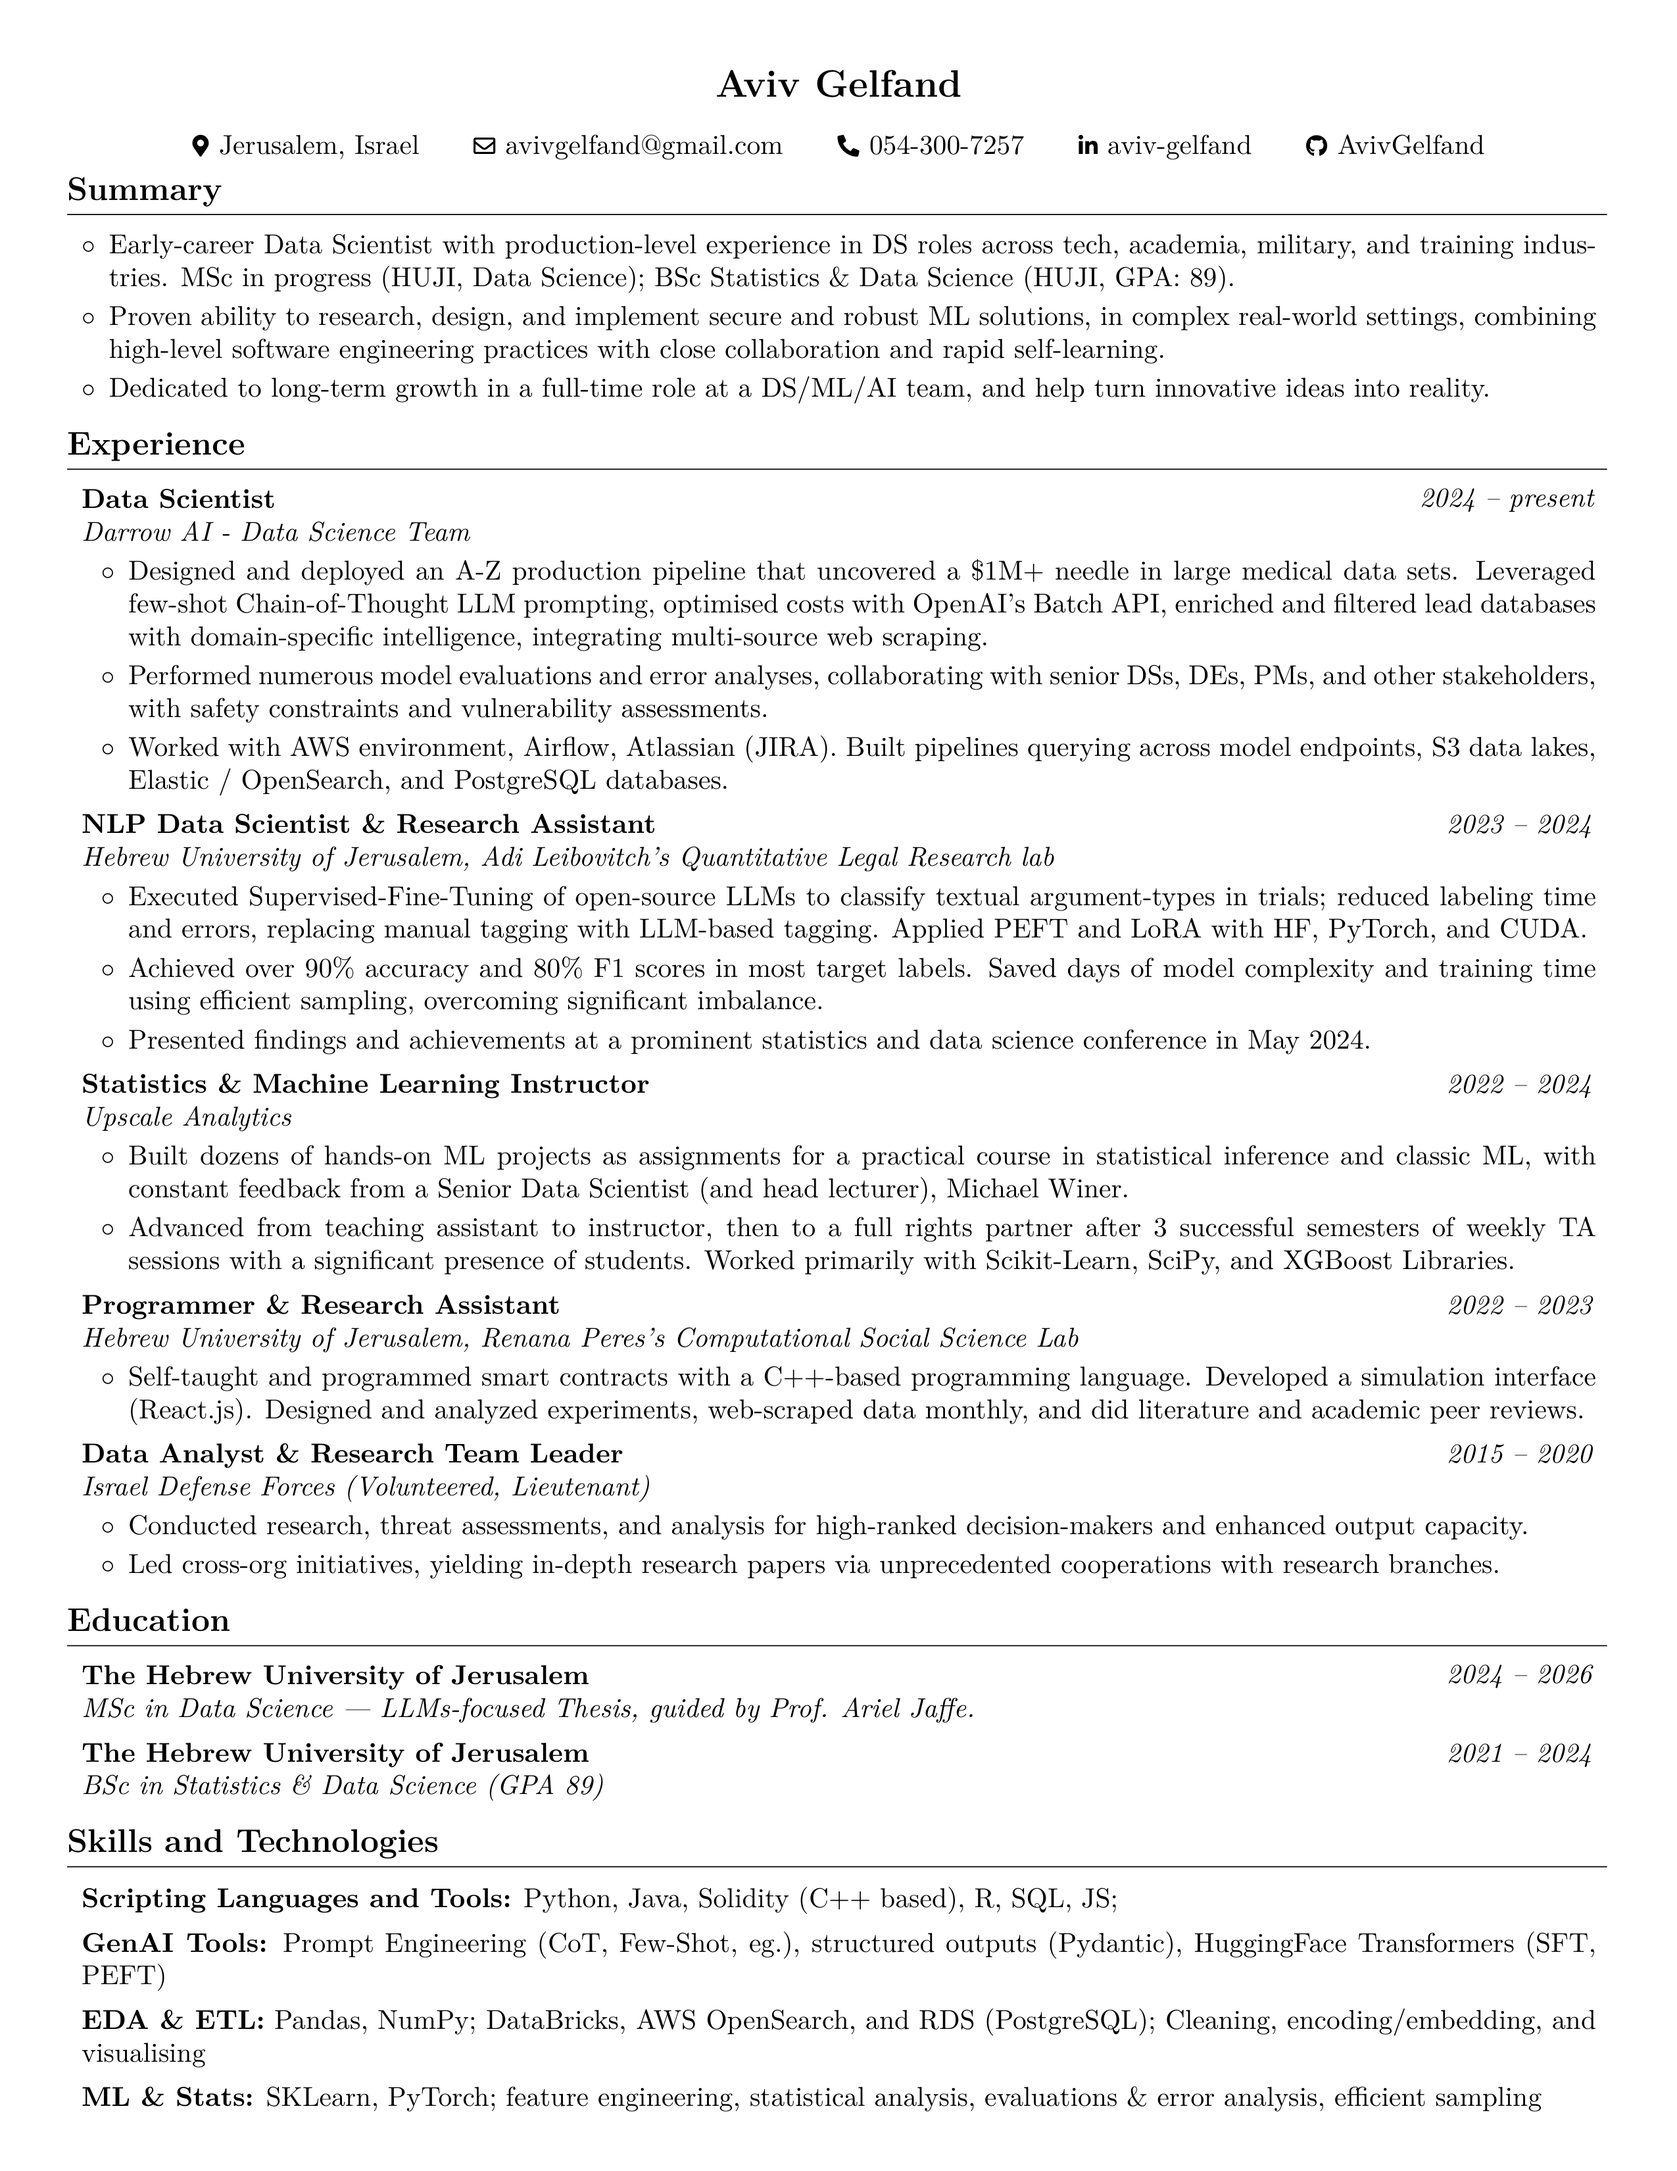
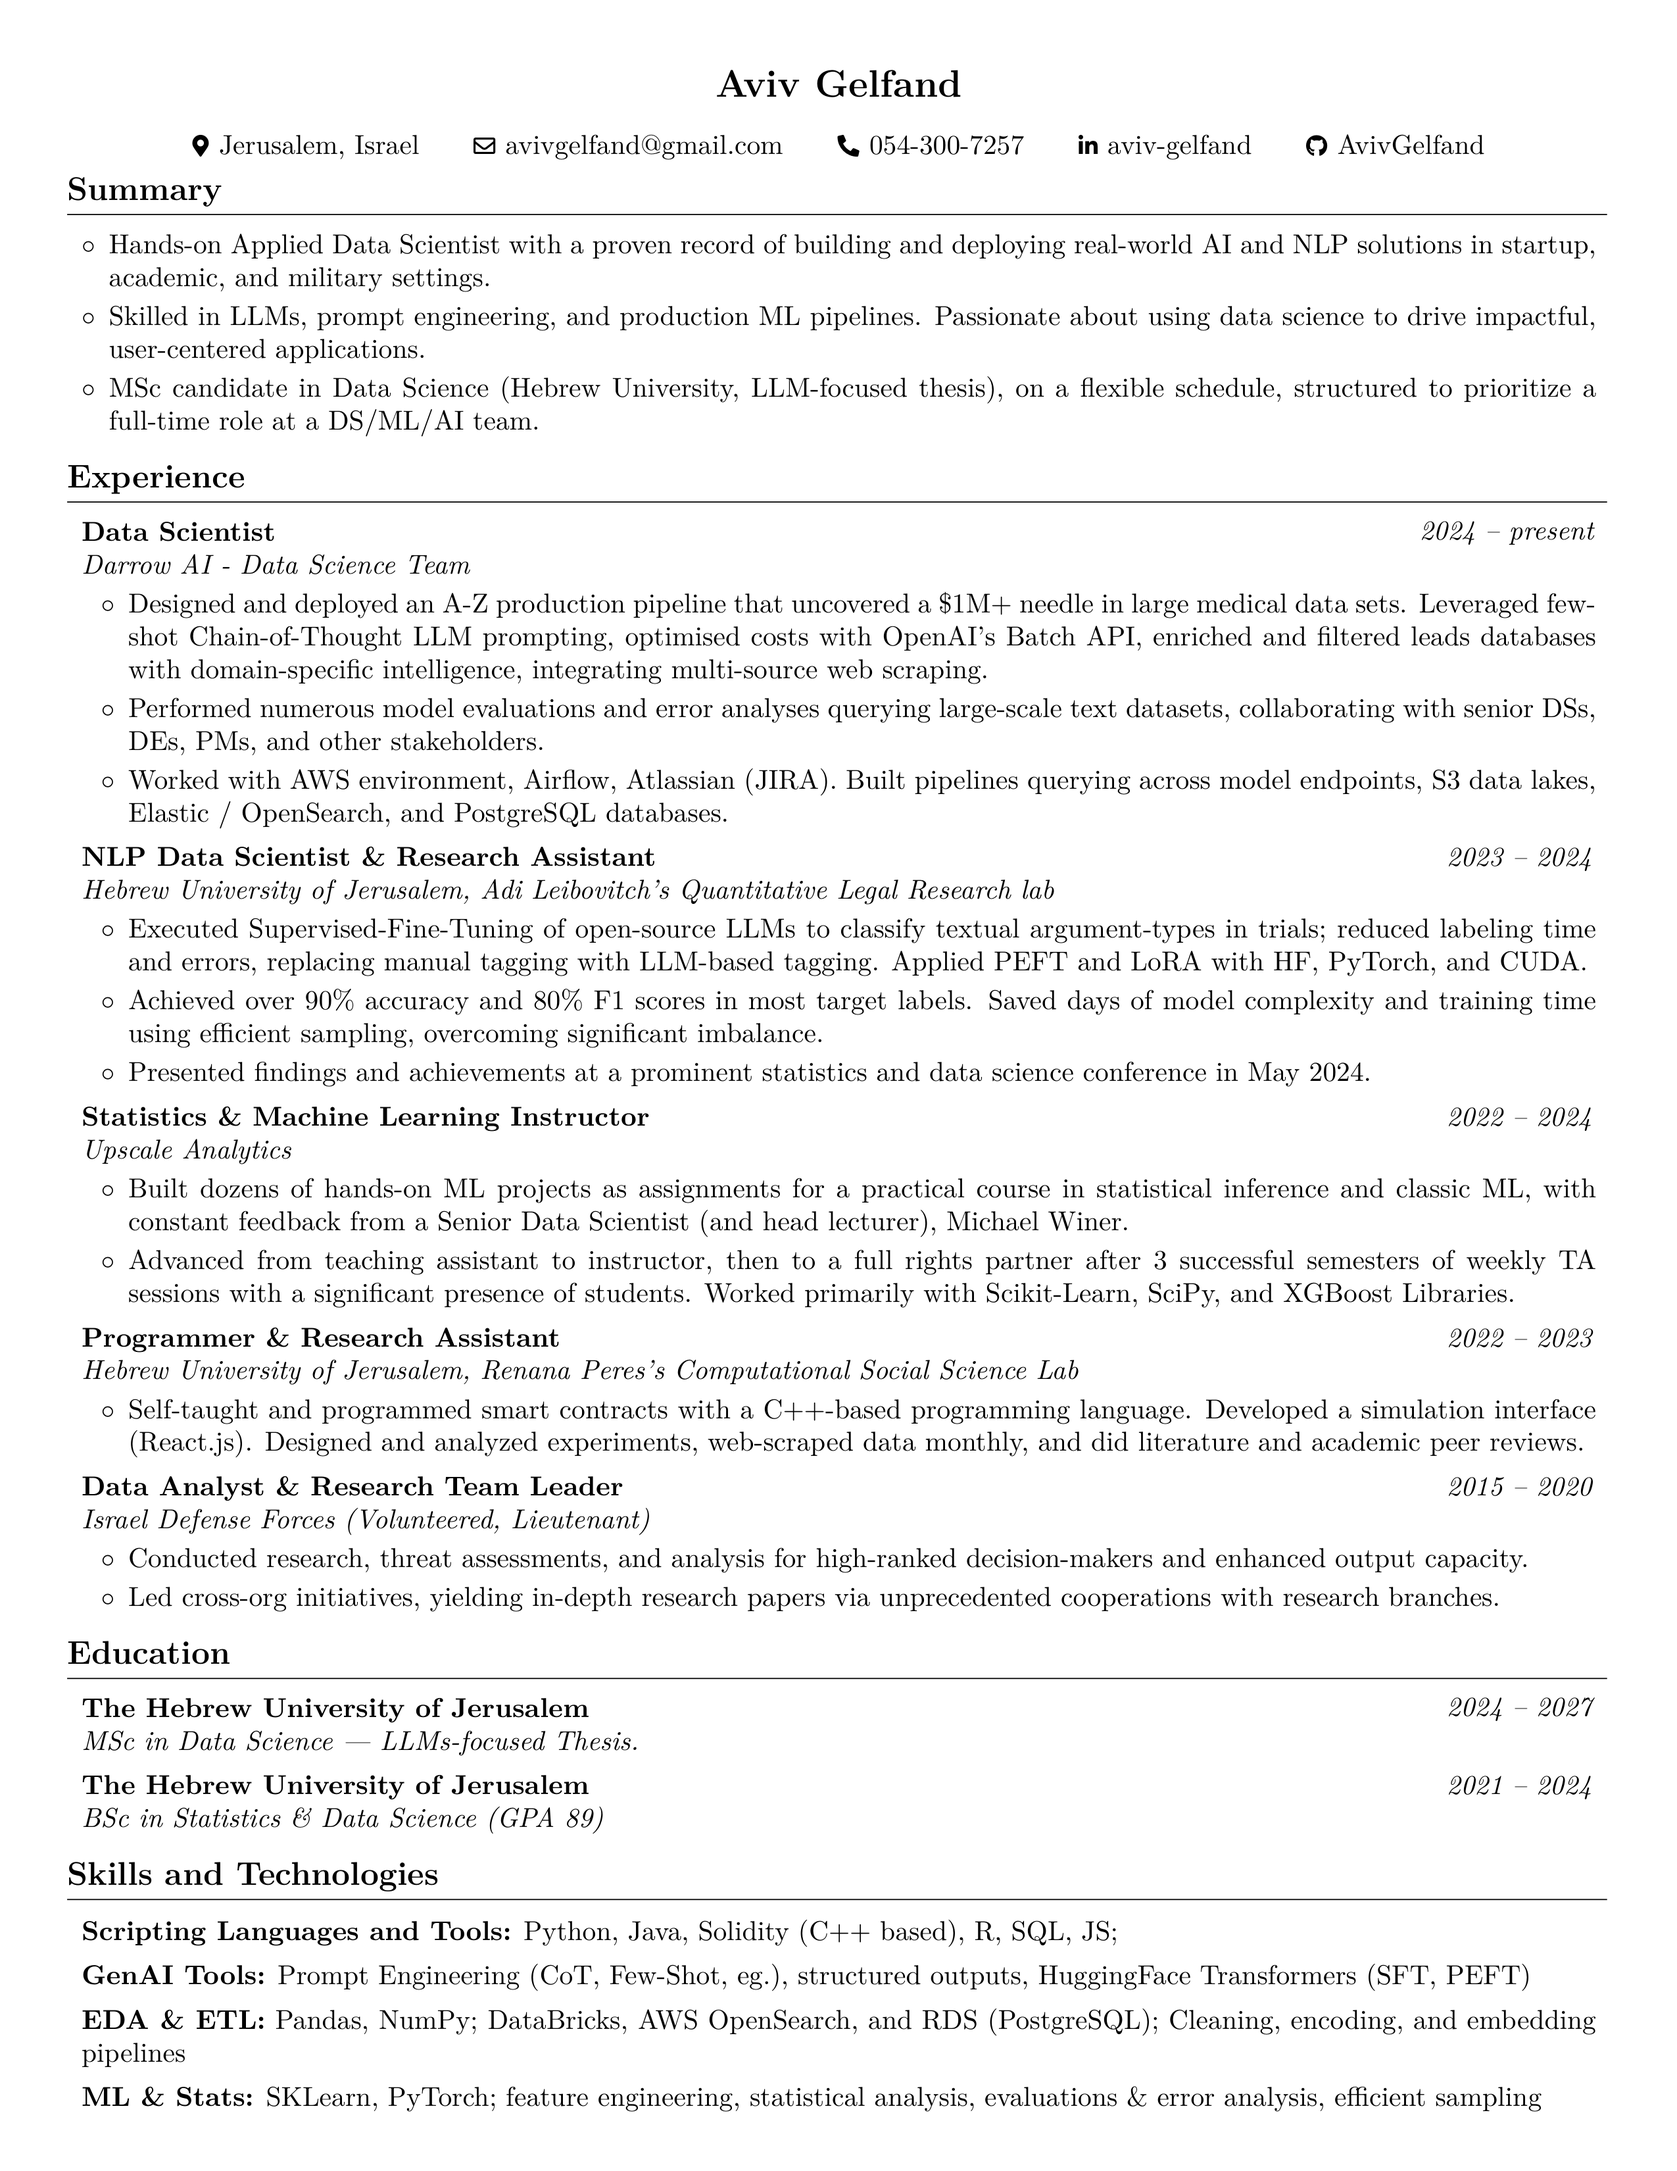
Render the latest CV

diff --git a/Aviv_Gelfand_CV.html b/Aviv_Gelfand_CV.html
@@ -43,9 +43,8 @@
         <h1>Summary</h1>
         <ul>
         <li>Hands-on Applied Data Scientist with a proven record of building and deploying real-world AI and NLP solutions in startup, academic, and military settings.</li>
-        <li>Skilled in LLMs, prompt engineering, and production ML pipelines.</li>
-        <li>Passionate about using data science to drive impactful, user-centered applications. </li>
-        <li>MSc candidate in Data Science (Hebrew University, LLM-focused thesis).</li>
+        <li>Skilled in LLMs, prompt engineering, and production ML pipelines. Passionate about using data science to drive impactful, user-centered applications. </li>
+        <li>MSc candidate in Data Science (Hebrew University, LLM-focused thesis), on a flexible schedule, structured to prioritize a full-time role at a DS/ML/AI team.</li>
         </ul>
         <h1>Experience</h1>
         <h2>Darrow AI - Data Science Team, Data Scientist</h2>
@@ -80,9 +79,9 @@
         <li>Led cross-org initiatives, yielding in-depth research papers via unprecedented cooperations with research branches.</li>
         </ul>
         <h1>Education</h1>
-        <h2>The Hebrew University of Jerusalem, MSc in Data Science | LLMs-focused Thesis, guided by Prof. Ariel Jaffe.</h2>
+        <h2>The Hebrew University of Jerusalem, MSc in Data Science | LLMs-focused Thesis.</h2>
         <ul>
-        <li>2024 – 2026</li>
+        <li>2024 – 2027</li>
         </ul>
         <h2>The Hebrew University of Jerusalem, BSc in Statistics &amp; Data Science (GPA 89)</h2>
         <ul>

diff --git a/Aviv_Gelfand_CV.tex b/Aviv_Gelfand_CV.tex
@@ -183,11 +183,9 @@
 
         \item Hands-on Applied Data Scientist with a proven record of building and deploying real-world AI and NLP solutions in startup, academic, and military settings.
 
-        \item Skilled in LLMs, prompt engineering, and production ML pipelines.
+        \item Skilled in LLMs, prompt engineering, and production ML pipelines. Passionate about using data science to drive impactful, user-centered applications. 
 
-        \item Passionate about using data science to drive impactful, user-centered applications. 
-
-        \item MSc candidate in Data Science (Hebrew University, LLM-focused thesis).
+        \item MSc candidate in Data Science (Hebrew University, LLM-focused thesis), on a flexible schedule, structured to prioritize a full-time role at a DS/ML/AI team.
 
 
         \end{highlightsforbulletentries}
@@ -307,10 +305,10 @@
         \begin{twocolentry}{
             
             
-        \textit{2024 – 2026}}
+        \textit{2024 – 2027}}
             \textbf{The Hebrew University of Jerusalem}
 
-            \textit{MSc in Data Science | LLMs-focused Thesis, guided by Prof. Ariel Jaffe.}
+            \textit{MSc in Data Science | LLMs-focused Thesis.}
         \end{twocolentry}
 
 

diff --git a/README.md b/README.md
@@ -12,9 +12,8 @@
 # Summary
 
 - Hands-on Applied Data Scientist with a proven record of building and deploying real-world AI and NLP solutions in startup, academic, and military settings.
-- Skilled in LLMs, prompt engineering, and production ML pipelines.
-- Passionate about using data science to drive impactful, user-centered applications. 
-- MSc candidate in Data Science (Hebrew University, LLM-focused thesis).
+- Skilled in LLMs, prompt engineering, and production ML pipelines. Passionate about using data science to drive impactful, user-centered applications. 
+- MSc candidate in Data Science (Hebrew University, LLM-focused thesis), on a flexible schedule, structured to prioritize a full-time role at a DS/ML/AI team.
 # Experience
 
 ## Darrow AI - Data Science Team, Data Scientist
@@ -50,9 +49,9 @@
 
 # Education
 
-## The Hebrew University of Jerusalem, MSc in Data Science | LLMs-focused Thesis, guided by Prof. Ariel Jaffe.
+## The Hebrew University of Jerusalem, MSc in Data Science | LLMs-focused Thesis.
 
-- 2024 – 2026
+- 2024 – 2027
 
 ## The Hebrew University of Jerusalem, BSc in Statistics & Data Science (GPA 89)
 
